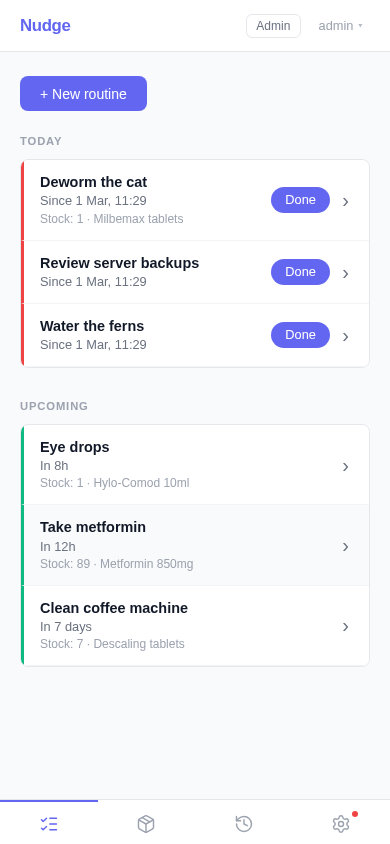
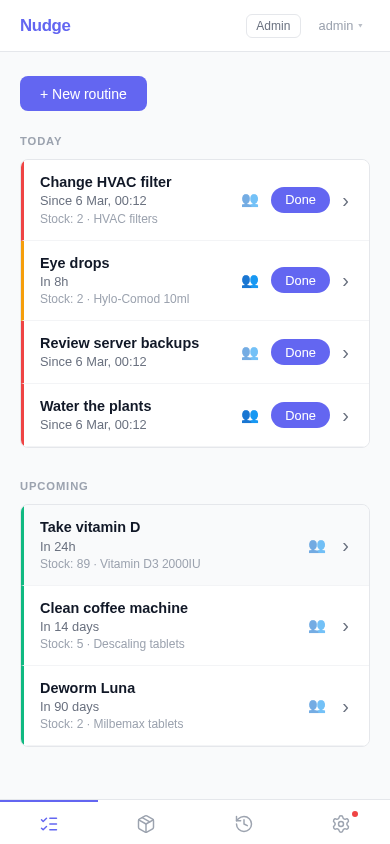
docs: refresh screenshots with realistic data and sharing examples
- Rewrite e2e/screenshots.js with two-user seed data (admin + laura)
- Add stock groups (Health, Home, Pets) and realistic stock/lot data
- Add sharing screenshot showing the contact popover on dashboard
- Add shared dashboard screenshot showing routines from another user
- Update README with new features (sharing, contacts, stock groups)
- Renumber screenshots from 01-09 to accommodate new captures

diff --git a/e2e/screenshots.js b/e2e/screenshots.js
@@ -10,8 +10,10 @@ const OUT = join(__dirname, '..', 'docs', 'screenshots')
 const BASE = (process.env.BASE_URL ?? 'http://localhost:5173').replace(/\/$/, '')
 const USER = process.env.E2E_USERNAME ?? 'admin'
 const PASS = process.env.E2E_PASSWORD ?? ''
+const USER2 = process.env.E2E_USER2_USERNAME ?? 'laura'
+const PASS2 = process.env.E2E_USER2_PASSWORD ?? 'e2e-pass-2026'
 
-/* ── helpers ─────────────────────────────────────────── */
+/* -- helpers ------------------------------------------------- */
 
 async function api(page, method, path, body) {
   return page.evaluate(
@@ -43,7 +45,15 @@ async function screenshot(page, name) {
   console.log(`  ${name}.png`)
 }
 
-/* ── seed data ───────────────────────────────────────── */
+async function login(page, username, password) {
+  await page.goto(`${BASE}/login`)
+  await page.getByPlaceholder('Username').fill(username)
+  await page.getByPlaceholder('Password').fill(password)
+  await page.getByRole('button', { name: 'Sign in' }).click()
+  await page.waitForURL('**/')
+}
+
+/* -- seed data ----------------------------------------------- */
 
 function items(response) {
   return Array.isArray(response) ? response : response.results ?? []
@@ -58,70 +68,136 @@ async function cleanup(page) {
   for (const s of stock) {
     await api(page, 'DELETE', `/api/stock/${s.id}/`)
   }
+  const groups = items(await api(page, 'GET', '/api/stock-groups/'))
+  for (const g of groups) {
+    await api(page, 'DELETE', `/api/stock-groups/${g.id}/`)
+  }
   if (routines.length || stock.length) {
     console.log(`  Cleaned ${routines.length} routines + ${stock.length} stock items`)
   }
 }
 
+async function ensureContact(page, username) {
+  const contacts = await api(page, 'GET', '/api/auth/contacts/')
+  if (contacts.some((c) => c.username === username)) return
+  await api(page, 'POST', '/api/auth/contacts/', { username })
+}
+
 async function seed(page) {
   await cleanup(page)
-
   console.log('  Seeding data...')
 
+  // Add contact for sharing
+  if (USER2 && PASS2) {
+    await ensureContact(page, USER2)
+  }
+
+  // Stock groups
+  const healthGroup = await api(page, 'POST', '/api/stock-groups/', { name: 'Health' })
+  const homeGroup = await api(page, 'POST', '/api/stock-groups/', { name: 'Home' })
+  const petGroup = await api(page, 'POST', '/api/stock-groups/', { name: 'Pets' })
+
   // Stock items
-  const metforminStock = await api(page, 'POST', '/api/stock/', { name: 'Metformin 850mg' })
-  const eyedropsStock = await api(page, 'POST', '/api/stock/', { name: 'Hylo-Comod 10ml' })
-  const descalingStock = await api(page, 'POST', '/api/stock/', { name: 'Descaling tablets' })
-  const milbemaxStock = await api(page, 'POST', '/api/stock/', { name: 'Milbemax tablets' })
+  const vitaminStock = await api(page, 'POST', '/api/stock/', {
+    name: 'Vitamin D3 2000IU', group: healthGroup.id,
+  })
+  const ibuprofenStock = await api(page, 'POST', '/api/stock/', {
+    name: 'Ibuprofen 600mg', group: healthGroup.id,
+  })
+  const eyedropsStock = await api(page, 'POST', '/api/stock/', {
+    name: 'Hylo-Comod 10ml', group: healthGroup.id,
+  })
+  const descalingStock = await api(page, 'POST', '/api/stock/', {
+    name: 'Descaling tablets', group: homeGroup.id,
+  })
+  const filterStock = await api(page, 'POST', '/api/stock/', {
+    name: 'HVAC filters', group: homeGroup.id,
+  })
+  const milbemaxStock = await api(page, 'POST', '/api/stock/', {
+    name: 'Milbemax tablets', group: petGroup.id,
+  })
 
   // Lots
-  await api(page, 'POST', `/api/stock/${metforminStock.id}/lots/`, {
-    quantity: 60, expiry_date: '2026-09-30', lot_number: 'M2026A',
+  await api(page, 'POST', `/api/stock/${vitaminStock.id}/lots/`, {
+    quantity: 90, expiry_date: '2027-01-31', lot_number: 'VD-2027A',
   })
-  await api(page, 'POST', `/api/stock/${metforminStock.id}/lots/`, {
-    quantity: 30, expiry_date: '2027-03-31', lot_number: 'M2027B',
+  await api(page, 'POST', `/api/stock/${ibuprofenStock.id}/lots/`, {
+    quantity: 20, expiry_date: '2027-06-30', lot_number: 'IBU-610',
   })
   await api(page, 'POST', `/api/stock/${eyedropsStock.id}/lots/`, {
-    quantity: 2, expiry_date: '2026-12-31', lot_number: 'HC-4481',
+    quantity: 1, expiry_date: '2026-12-31', lot_number: 'HC-4481',
+  })
+  await api(page, 'POST', `/api/stock/${eyedropsStock.id}/lots/`, {
+    quantity: 2, expiry_date: '2027-05-15', lot_number: 'HC-5520',
   })
   await api(page, 'POST', `/api/stock/${descalingStock.id}/lots/`, {
-    quantity: 8, expiry_date: '2027-06-30',
+    quantity: 6, expiry_date: '2027-06-30',
+  })
+  await api(page, 'POST', `/api/stock/${filterStock.id}/lots/`, {
+    quantity: 2, expiry_date: '2027-09-30', lot_number: 'HF-300',
   })
   await api(page, 'POST', `/api/stock/${milbemaxStock.id}/lots/`, {
     quantity: 1, expiry_date: '2026-11-30', lot_number: 'VET-920',
   })
+  await api(page, 'POST', `/api/stock/${milbemaxStock.id}/lots/`, {
+    quantity: 2, expiry_date: '2027-04-15', lot_number: 'VET-1080',
+  })
 
-  // Routines
-  const metformin = await api(page, 'POST', '/api/routines/', {
-    name: 'Take metformin', interval_hours: 12, stock: metforminStock.id, stock_usage: 1,
+  // Get contacts for sharing
+  let contactId = null
+  if (USER2 && PASS2) {
+    const contacts = await api(page, 'GET', '/api/auth/contacts/')
+    const contact = contacts.find((c) => c.username === USER2)
+    if (contact) contactId = contact.id
+  }
+
+  // Routines (mix of due, upcoming, and shared)
+  const vitaminD = await api(page, 'POST', '/api/routines/', {
+    name: 'Take vitamin D', interval_hours: 24,
+    stock: vitaminStock.id, stock_usage: 1,
   })
   const eyedrops = await api(page, 'POST', '/api/routines/', {
-    name: 'Eye drops', interval_hours: 8, stock: eyedropsStock.id, stock_usage: 1,
+    name: 'Eye drops', interval_hours: 8,
+    stock: eyedropsStock.id, stock_usage: 1,
+    ...(contactId ? { shared_with: [contactId] } : {}),
   })
-  await api(page, 'POST', '/api/routines/', {
-    name: 'Water the ferns', interval_hours: 48,
+  const plants = await api(page, 'POST', '/api/routines/', {
+    name: 'Water the plants', interval_hours: 72,
+    ...(contactId ? { shared_with: [contactId] } : {}),
   })
   const coffee = await api(page, 'POST', '/api/routines/', {
-    name: 'Clean coffee machine', interval_hours: 168, stock: descalingStock.id, stock_usage: 1,
+    name: 'Clean coffee machine', interval_hours: 336,
+    stock: descalingStock.id, stock_usage: 1,
   })
   await api(page, 'POST', '/api/routines/', {
-    name: 'Deworm the cat', interval_hours: 2160, stock: milbemaxStock.id, stock_usage: 1,
+    name: 'Change HVAC filter', interval_hours: 2160,
+    stock: filterStock.id, stock_usage: 1,
+  })
+  const deworm = await api(page, 'POST', '/api/routines/', {
+    name: 'Deworm Luna', interval_hours: 2160,
+    stock: milbemaxStock.id, stock_usage: 1,
   })
   await api(page, 'POST', '/api/routines/', {
     name: 'Review server backups', interval_hours: 168,
   })
 
-  // Log some routines -> creates history + moves them to "Upcoming"
-  // Unlogged ones stay in "Today" (due immediately)
-  await api(page, 'POST', `/api/routines/${metformin.id}/log/`, { notes: 'After breakfast' })
+  // Share some stock too
+  if (contactId) {
+    await api(page, 'PATCH', `/api/stock/${eyedropsStock.id}/`, { shared_with: [contactId] })
+    await api(page, 'PATCH', `/api/stock/${descalingStock.id}/`, { shared_with: [contactId] })
+  }
+
+  // Log some routines to create history and move them to "Upcoming"
+  await api(page, 'POST', `/api/routines/${vitaminD.id}/log/`, { notes: 'After breakfast' })
   await api(page, 'POST', `/api/routines/${eyedrops.id}/log/`, {})
-  await api(page, 'POST', `/api/routines/${coffee.id}/log/`, { notes: 'Used 1 tablet' })
+  await api(page, 'POST', `/api/routines/${coffee.id}/log/`, {})
+  await api(page, 'POST', `/api/routines/${deworm.id}/log/`, {})
 
   console.log('  Seed complete')
-  return metformin.id
+  return { detailId: vitaminD.id, sharedRoutineId: plants.id }
 }
 
-/* ── main ────────────────────────────────────────────── */
+/* -- main ---------------------------------------------------- */
 
 async function main() {
   if (!PASS) {
@@ -145,37 +221,54 @@ async function main() {
     await screenshot(page, '01-login')
 
     // 2. Log in
-    await page.getByPlaceholder('Username').fill(USER)
-    await page.getByPlaceholder('Password').fill(PASS)
-    await page.getByRole('button', { name: 'Sign in' }).click()
-    await page.waitForURL('**/')
+    await login(page, USER, PASS)
 
-    // 3. Seed if needed
-    const detailId = await seed(page)
+    // 3. Seed data
+    const { detailId } = await seed(page)
 
     // 4. Dashboard
     await page.goto(`${BASE}/`)
     await screenshot(page, '02-dashboard')
 
-    // 5. Routine detail
+    // 5. Dashboard with share popover open
+    const shareBtn = page.getByRole('button', { name: 'Share' }).first()
+    if (await shareBtn.isVisible()) {
+      await shareBtn.click()
+      await page.waitForTimeout(300)
+      await screenshot(page, '03-dashboard-sharing')
+      // Close popover
+      await page.keyboard.press('Escape')
+      await page.waitForTimeout(200)
+    }
+
+    // 6. Routine detail
     await page.goto(`${BASE}/routines/${detailId}`)
-    await screenshot(page, '03-routine-detail')
+    await screenshot(page, '04-routine-detail')
 
-    // 6. New routine form
+    // 7. New routine form
     await page.goto(`${BASE}/routines/new`)
-    await screenshot(page, '04-new-routine')
+    await screenshot(page, '05-new-routine')
 
-    // 7. Inventory
+    // 8. Inventory
     await page.goto(`${BASE}/inventory`)
-    await screenshot(page, '05-inventory')
+    await screenshot(page, '06-inventory')
 
-    // 8. History
+    // 9. History
     await page.goto(`${BASE}/history`)
-    await screenshot(page, '06-history')
+    await screenshot(page, '07-history')
 
-    // 9. Settings
+    // 10. Settings
     await page.goto(`${BASE}/settings`)
-    await screenshot(page, '07-settings')
+    await screenshot(page, '08-settings')
+
+    // 11. Dashboard as second user (shows shared routines with owner label)
+    if (USER2 && PASS2) {
+      const page2 = await context.newPage()
+      await login(page2, USER2, PASS2)
+      await page2.goto(`${BASE}/`)
+      await screenshot(page2, '09-shared-dashboard')
+      await page2.close()
+    }
 
     console.log(`\nDone -> ${OUT}`)
   } finally {

diff --git a/README.md b/README.md
@@ -21,9 +21,9 @@ Nudge is a personal PWA that sends you a quiet push notification when something 
 <p align="center">
   <img src="https://raw.githubusercontent.com/cibrandocampo/nudge/main/docs/screenshots/02-dashboard.png" width="260" alt="Dashboard"/>
   &nbsp;&nbsp;
-  <img src="https://raw.githubusercontent.com/cibrandocampo/nudge/main/docs/screenshots/03-routine-detail.png" width="260" alt="Routine detail"/>
+  <img src="https://raw.githubusercontent.com/cibrandocampo/nudge/main/docs/screenshots/06-inventory.png" width="260" alt="Inventory"/>
   &nbsp;&nbsp;
-  <img src="https://raw.githubusercontent.com/cibrandocampo/nudge/main/docs/screenshots/05-inventory.png" width="260" alt="Inventory"/>
+  <img src="https://raw.githubusercontent.com/cibrandocampo/nudge/main/docs/screenshots/09-shared-dashboard.png" width="260" alt="Shared dashboard"/>
 </p>
 
 ---
@@ -55,7 +55,10 @@ Anything you do on a schedule, Nudge can track.
 
 - **Push notifications** — Browser web push when something comes due. No app store required.
 - **Three-stage alerts** — A daily heads-up at your chosen time, a due alert when the interval expires, and follow-up reminders every 8 hours until you mark it done.
+- **Sharing** — Share routines and stock items with other users. Shared routines appear on their dashboard with an owner label, and they can mark them as done too.
+- **Contacts** — Add trusted users as contacts to quickly share routines and inventory with them via a simple popover.
 - **Inventory tracking** — Optionally attach a consumable to a routine (medication packs, filter cartridges, oil bottles). Each time you log the task, stock decrements automatically using FEFO order (First Expired, First Out).
+- **Stock groups** — Organize your inventory into categories (Health, Home, Pets, etc.) for a cleaner overview.
 - **Expiry tracking** — Add lot numbers and expiry dates to your stock. Nudge warns you 90 days before anything expires.
 - **Timezone-aware** — Your notification schedule follows your local time and adjusts automatically for daylight saving.
 - **Multilingual** — English, Spanish, and Galician.
@@ -70,15 +73,17 @@ Anything you do on a schedule, Nudge can track.
   <tr>
     <td align="center"><img src="https://raw.githubusercontent.com/cibrandocampo/nudge/main/docs/screenshots/01-login.png" width="260" alt="Login"/><br/><b>Login</b></td>
     <td align="center"><img src="https://raw.githubusercontent.com/cibrandocampo/nudge/main/docs/screenshots/02-dashboard.png" width="260" alt="Dashboard"/><br/><b>Dashboard</b></td>
-    <td align="center"><img src="https://raw.githubusercontent.com/cibrandocampo/nudge/main/docs/screenshots/03-routine-detail.png" width="260" alt="Routine detail"/><br/><b>Routine detail</b></td>
+    <td align="center"><img src="https://raw.githubusercontent.com/cibrandocampo/nudge/main/docs/screenshots/03-dashboard-sharing.png" width="260" alt="Sharing popover"/><br/><b>Sharing</b></td>
   </tr>
   <tr>
-    <td align="center"><img src="https://raw.githubusercontent.com/cibrandocampo/nudge/main/docs/screenshots/04-new-routine.png" width="260" alt="New routine"/><br/><b>New routine</b></td>
-    <td align="center"><img src="https://raw.githubusercontent.com/cibrandocampo/nudge/main/docs/screenshots/05-inventory.png" width="260" alt="Inventory"/><br/><b>Inventory</b></td>
-    <td align="center"><img src="https://raw.githubusercontent.com/cibrandocampo/nudge/main/docs/screenshots/06-history.png" width="260" alt="History"/><br/><b>History</b></td>
+    <td align="center"><img src="https://raw.githubusercontent.com/cibrandocampo/nudge/main/docs/screenshots/04-routine-detail.png" width="260" alt="Routine detail"/><br/><b>Routine detail</b></td>
+    <td align="center"><img src="https://raw.githubusercontent.com/cibrandocampo/nudge/main/docs/screenshots/05-new-routine.png" width="260" alt="New routine"/><br/><b>New routine</b></td>
+    <td align="center"><img src="https://raw.githubusercontent.com/cibrandocampo/nudge/main/docs/screenshots/06-inventory.png" width="260" alt="Inventory"/><br/><b>Inventory</b></td>
   </tr>
   <tr>
-    <td colspan="3" align="center"><img src="https://raw.githubusercontent.com/cibrandocampo/nudge/main/docs/screenshots/07-settings.png" width="260" alt="Settings"/><br/><b>Settings</b></td>
+    <td align="center"><img src="https://raw.githubusercontent.com/cibrandocampo/nudge/main/docs/screenshots/07-history.png" width="260" alt="History"/><br/><b>History</b></td>
+    <td align="center"><img src="https://raw.githubusercontent.com/cibrandocampo/nudge/main/docs/screenshots/08-settings.png" width="260" alt="Settings"/><br/><b>Settings</b></td>
+    <td align="center"><img src="https://raw.githubusercontent.com/cibrandocampo/nudge/main/docs/screenshots/09-shared-dashboard.png" width="260" alt="Shared dashboard"/><br/><b>Shared dashboard</b></td>
   </tr>
 </table>
 
@@ -214,7 +219,7 @@ Images are also rebuilt weekly to pick up base-image and dependency security pat
 
 ## Built with Claude Code
 
-This project was developed with the help of [Claude Code](https://claude.ai/code), Anthropic's AI coding assistant. Custom skills are provided in `.claude/skills/` to maintain project conventions. See [dev/README.md](https://github.com/cibrandocampo/nudge/blob/main/dev/README.md#claude-code) for details.
+This project was developed with the help of [Claude Code](https://claude.ai/code), Anthropic's AI coding assistant. Custom skills and commands are provided in `.claude/` to maintain project conventions. See [dev/README.md](https://github.com/cibrandocampo/nudge/blob/main/dev/README.md#claude-code) for details.
 
 ---
 
